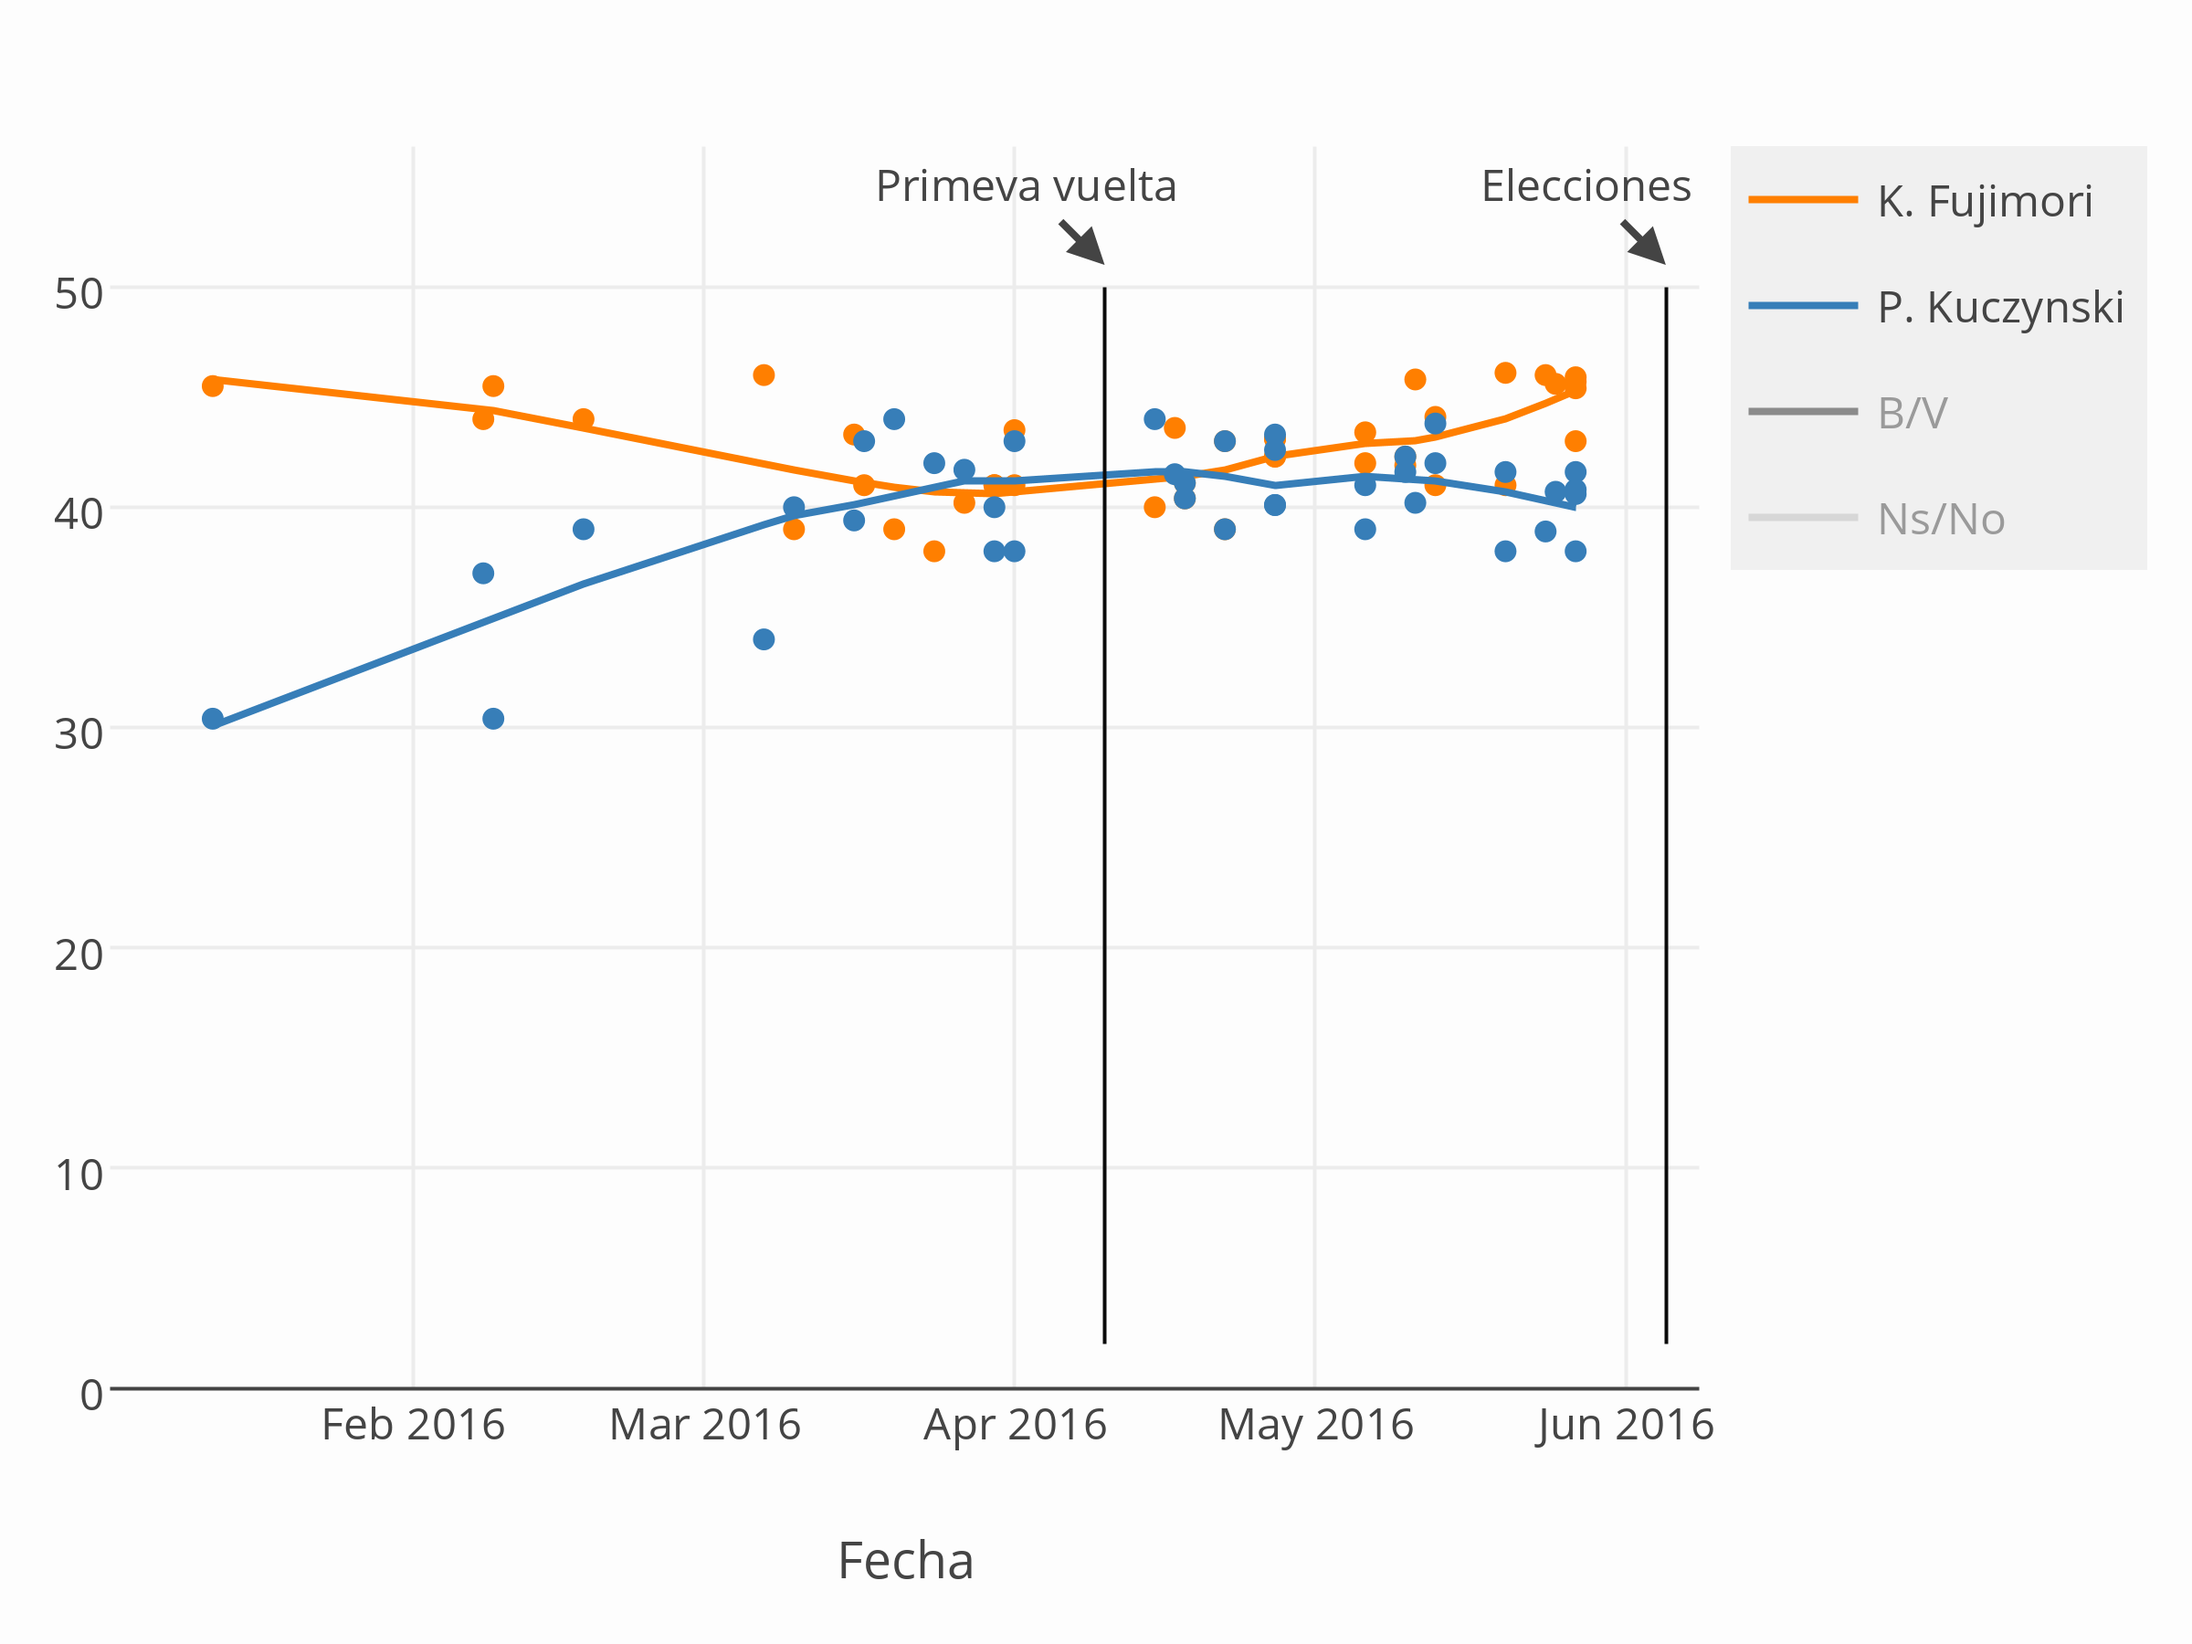
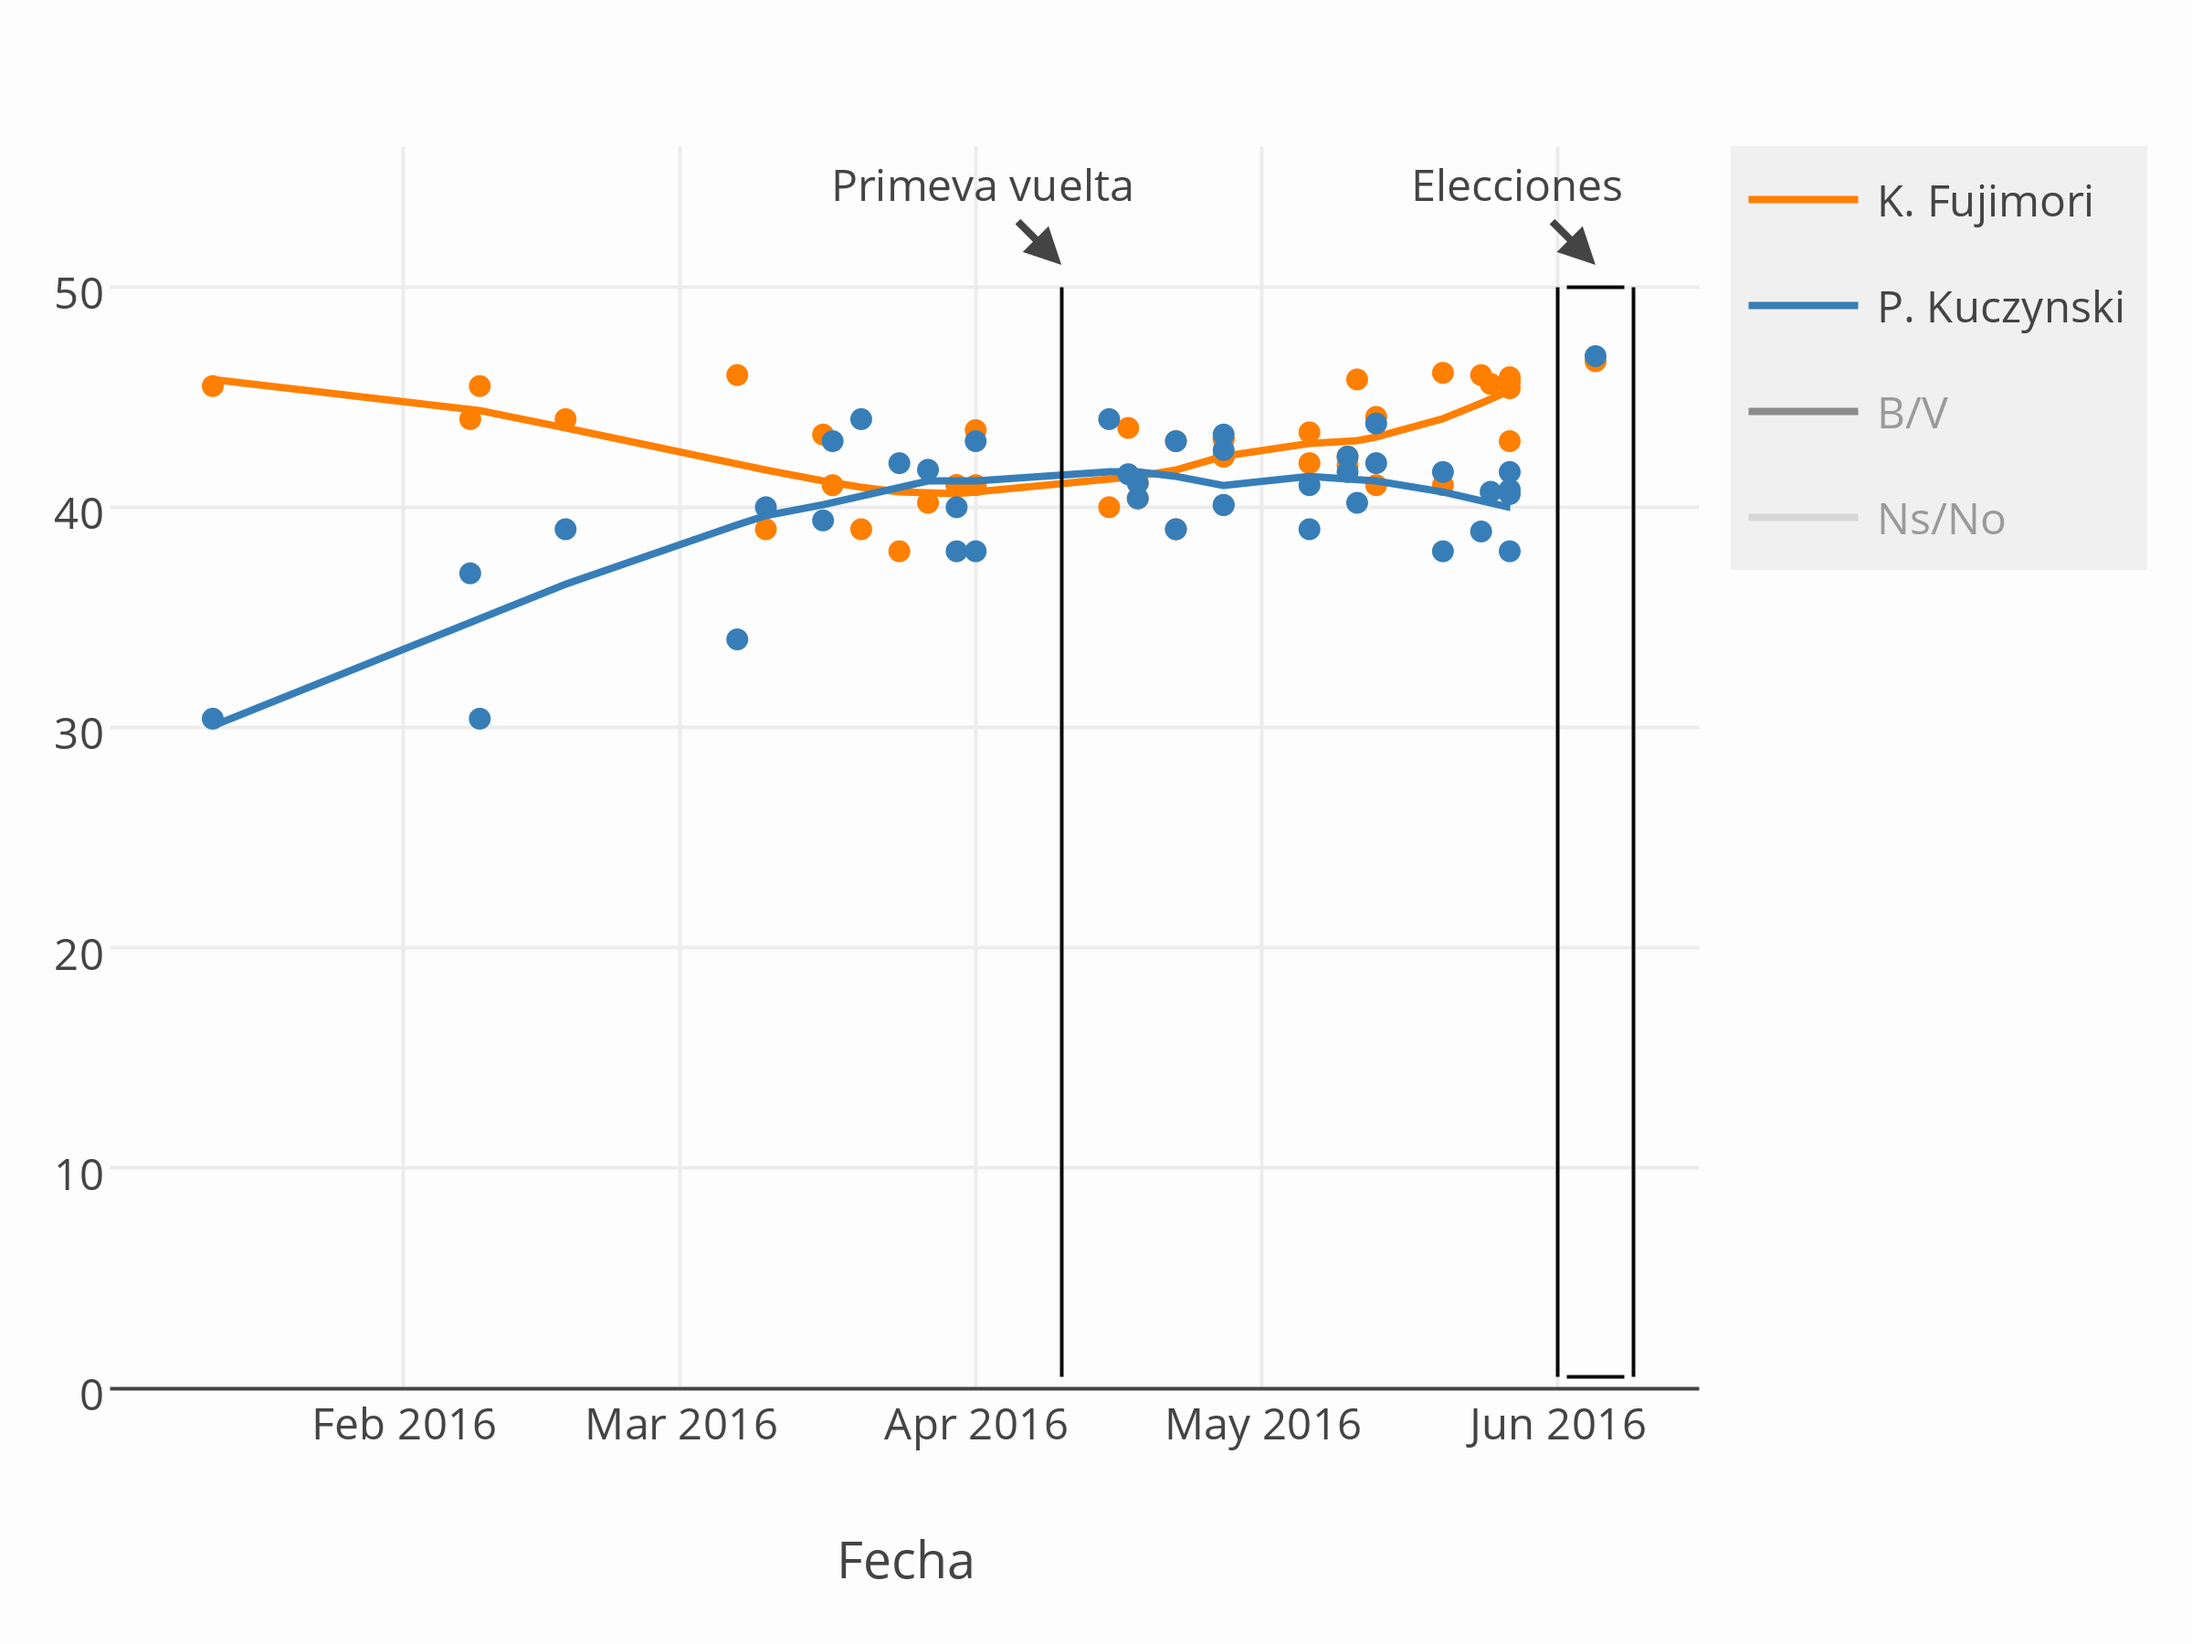
graficoActualizado

diff --git a/_posts/2016-06-12-Elecciones-presidenciales-segunda-vuelta-2016.md b/_posts/2016-06-12-Elecciones-presidenciales-segunda-vuelta-2016.md
@@ -25,7 +25,7 @@ breadcrumb: true
 
 
 
-El siguiente gráfico combina las encuestas de intención de voto. Actualizado el 29-05-2016.
+El siguiente gráfico combina las encuestas de intención de voto. Actualizado el 12-06-2016.
 
 
 
